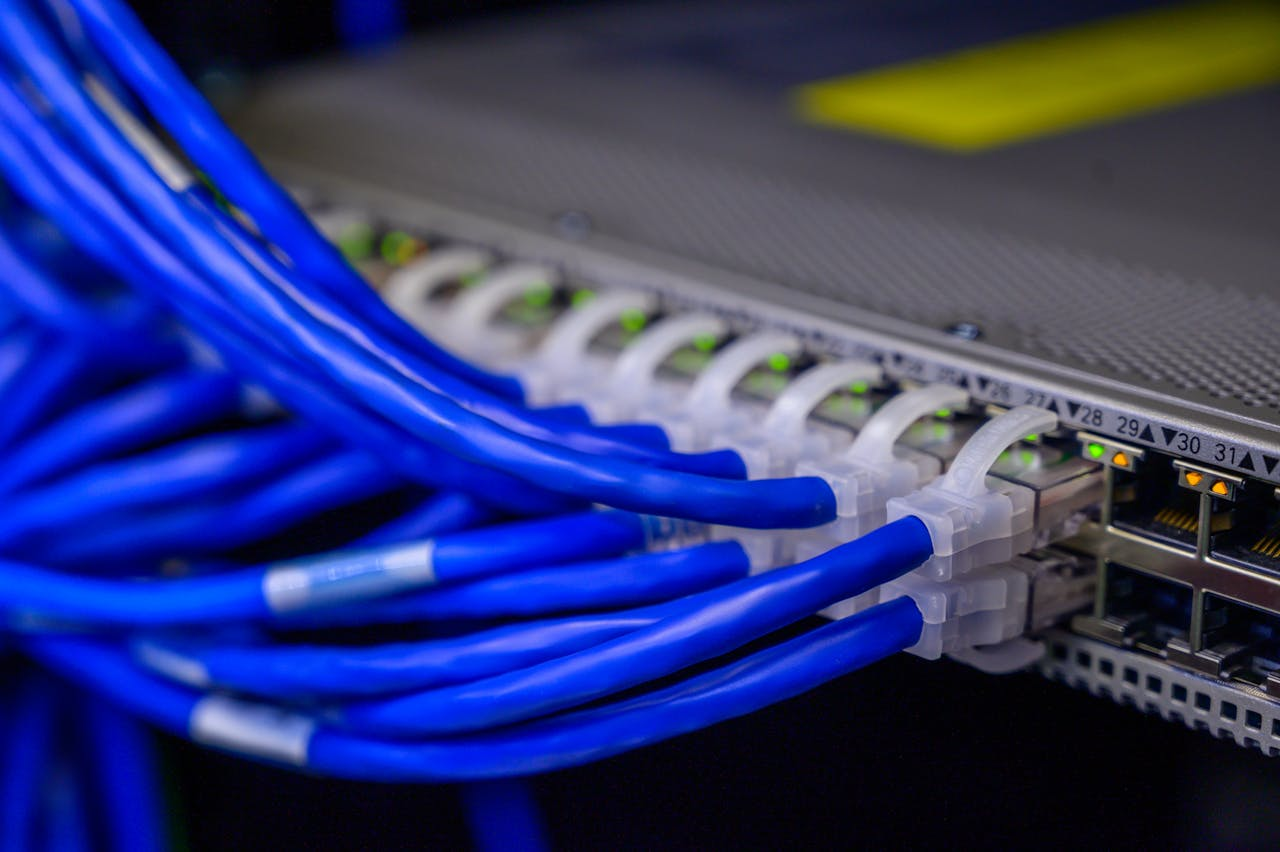
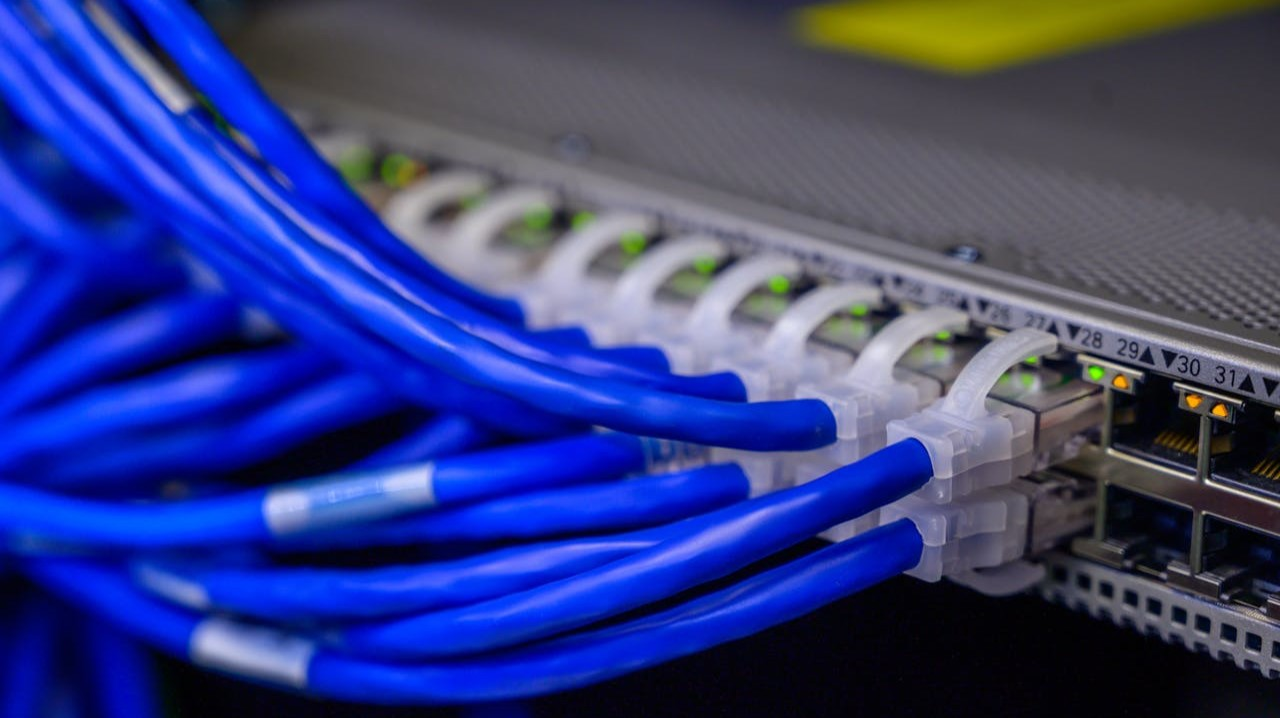
change ascpect ration of img

diff --git a/src/component/CategoryPage.css b/src/component/CategoryPage.css
@@ -1,9 +1,10 @@
 img {
   margin: 0;
-  width: 80%;
-  padding-left: 10%;
-  padding-top: 2%;
+  width: 98%;
+  margin-left: 0.50%;
+  margin-top: 2%;
   text-align: center;
+  border: solid black 5px;
 }
 
 p {
@@ -86,7 +87,7 @@ p {
 
 .bigDisplayDescr {
   font-size: 20pt;
-  padding-left: 10%;
+  padding-left: 2%;
   padding-top: 2%;
   padding-bottom: 2%;
 }
